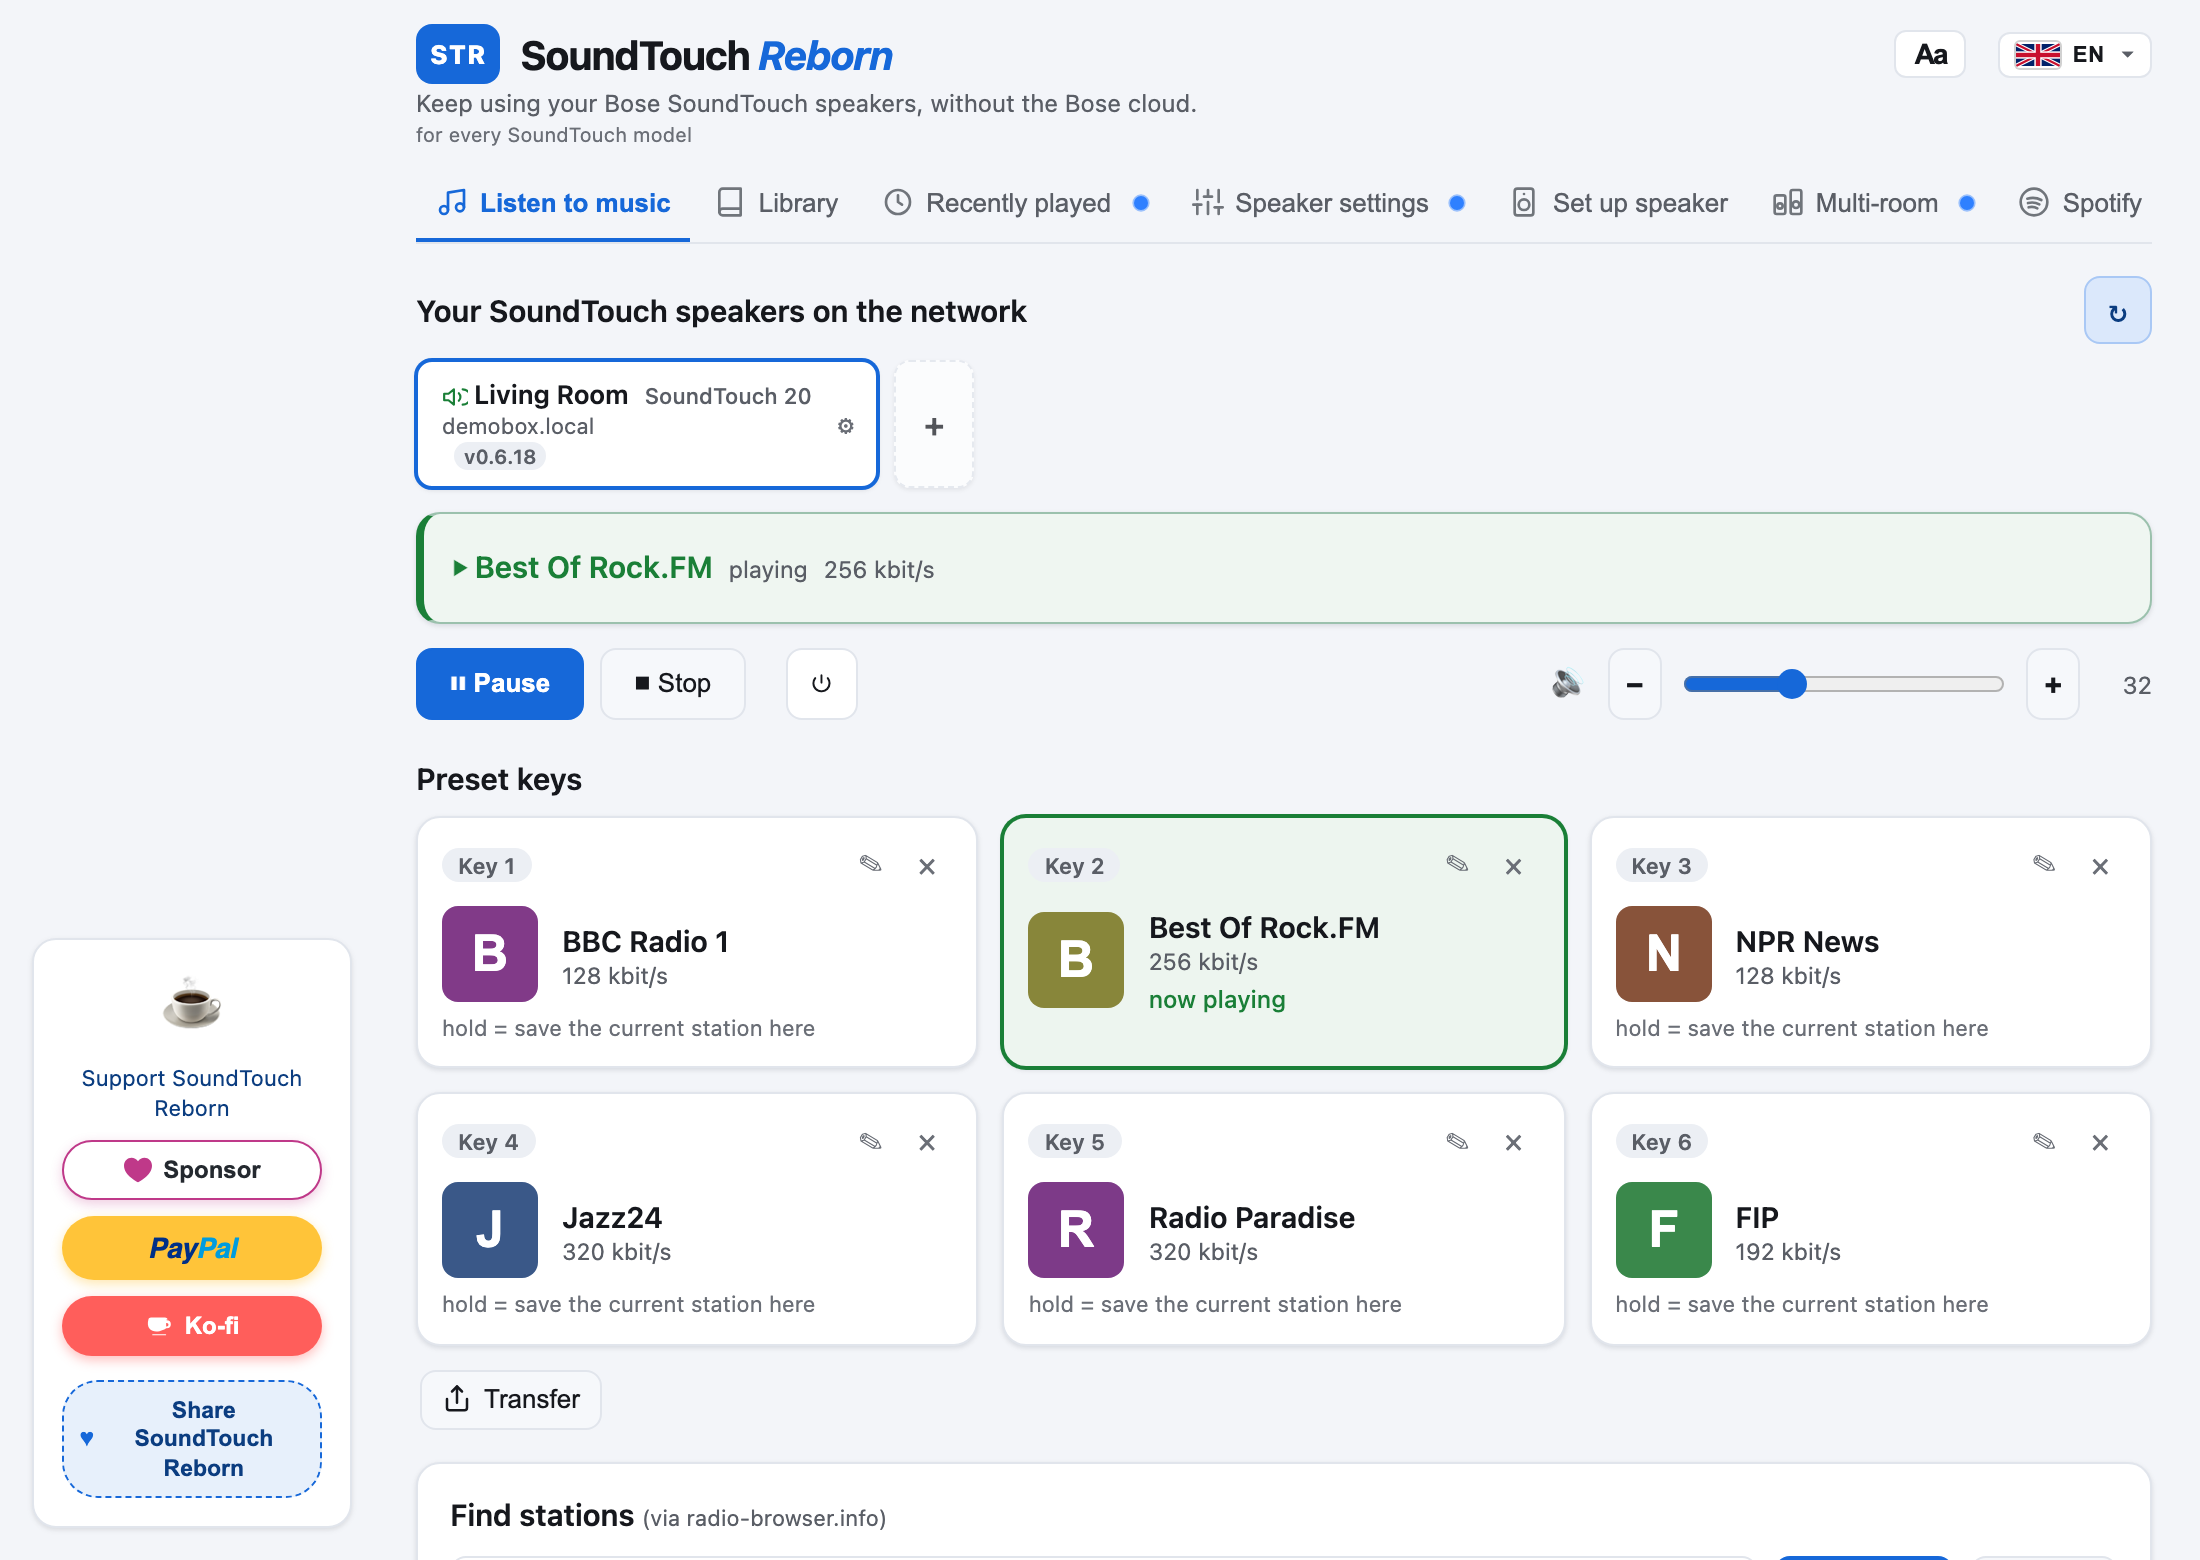
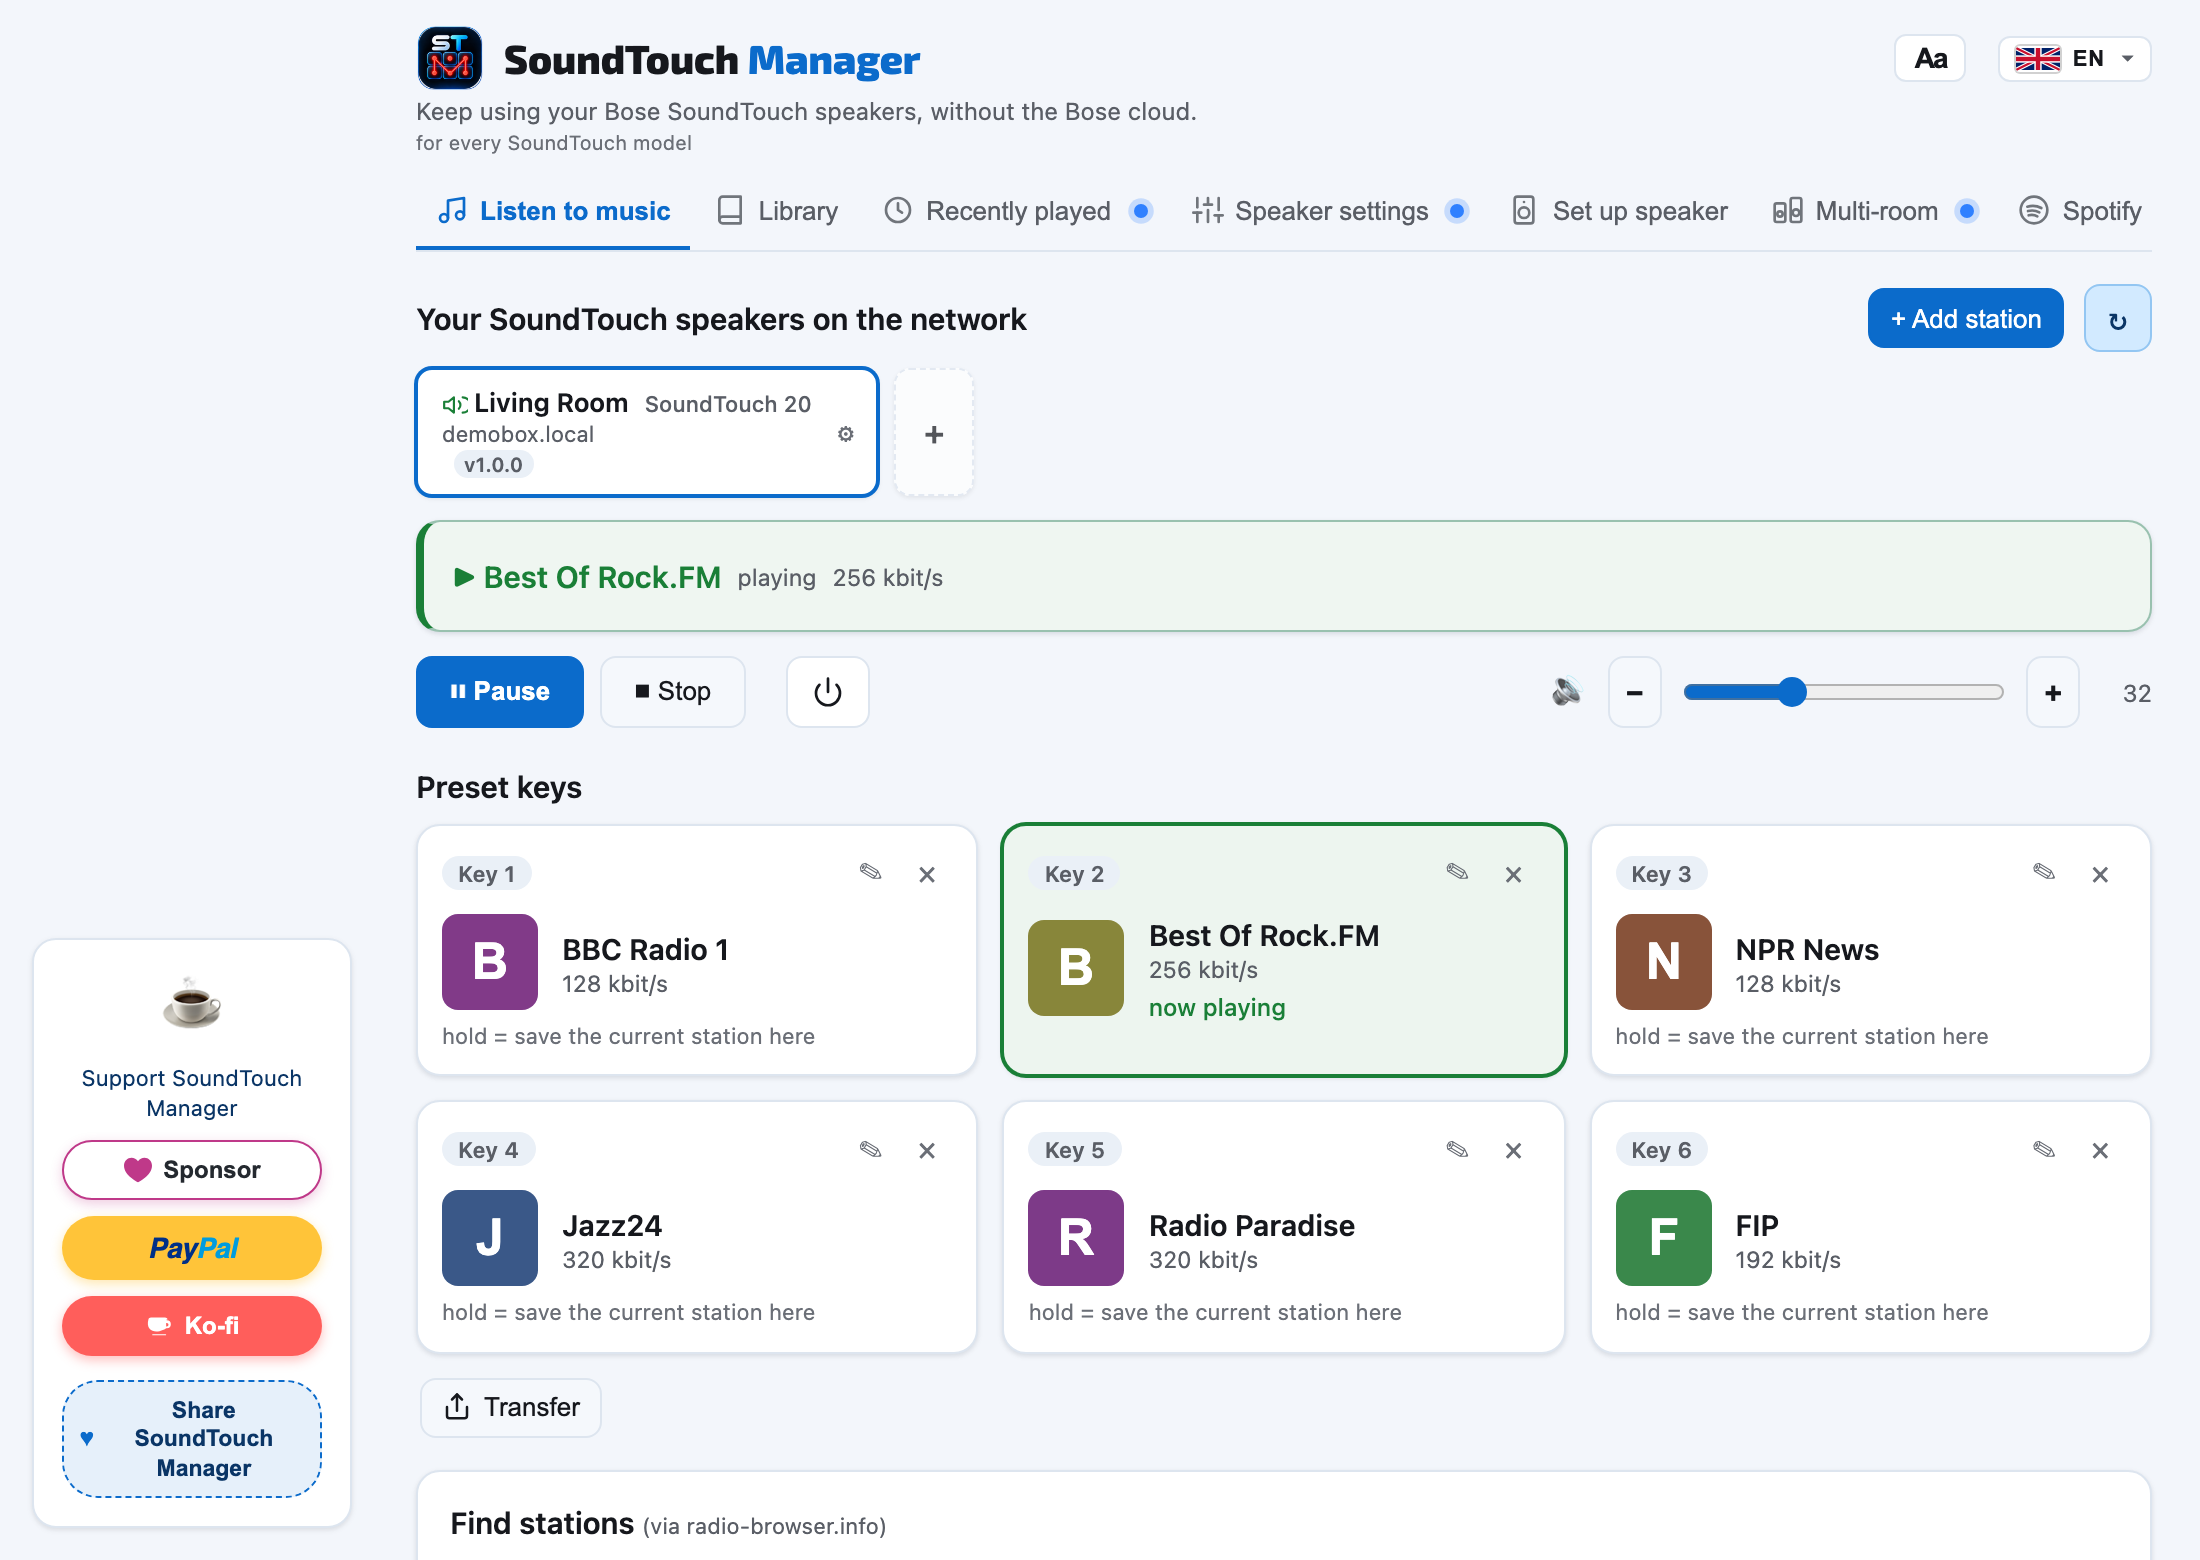
docs(site): show the current app name and add the privacy notice
The homepage screenshot still said SoundTouch Reborn. Google Play needs
a public privacy page for the Android app.

diff --git a/site/es/privacy.html b/site/es/privacy.html
@@ -1,0 +1,71 @@
+<!doctype html>
+<html lang="es">
+<head>
+  <meta charset="utf-8">
+  <meta name="viewport" content="width=device-width, initial-scale=1">
+  <title>Aviso de privacidad — SoundTouch Manager</title>
+  <meta name="description" content="Qué datos trata SoundTouch Manager, qué se queda en tu red y cómo contactar al desarrollador.">
+  <link rel="alternate" hreflang="en" href="https://jcbenitezhe.github.io/SoundTouchManager/privacy.html">
+  <link rel="alternate" hreflang="es" href="https://jcbenitezhe.github.io/SoundTouchManager/es/privacy.html">
+  <link rel="stylesheet" href="../style.css">
+</head>
+<body>
+  <header class="top">
+    <div class="wrap">
+      <a class="brand" href="./"><span class="logo" aria-hidden="true">STM</span>SoundTouch <em>Manager</em></a>
+      <nav>
+        <a href="./">Inicio</a>
+        <a class="lang" href="../privacy.html" hreflang="en" lang="en">English</a>
+      </nav>
+    </div>
+  </header>
+
+  <main class="wrap">
+    <article class="hero" style="text-align:left;padding-bottom:64px">
+      <h1>Aviso de privacidad</h1>
+      <p class="lead" style="margin-left:0">SoundTouch Manager, para la app de Android en Google Play, la app de escritorio y este sitio. Actualizado el 5 de octubre de 2026.</p>
+
+      <h2>Quién es</h2>
+      <p>SoundTouch Manager es una app no oficial de Juan Carlos Benitez. No está afiliada, respaldada ni autorizada por Bose Corporation. Contacto: <a href="mailto:jcbenitezhe@gmail.com">jcbenitezhe@gmail.com</a>.</p>
+      <p>No hay cuenta de SoundTouch Manager. La app no tiene anuncios ni un servicio de analítica o de informes de fallos.</p>
+
+      <h2>Qué se queda en tu red</h2>
+      <p>La app busca altavoces SoundTouch en tu Wi-Fi. El nombre del altavoz y las direcciones locales se quedan en el teléfono y en el altavoz. No se envían al desarrollador.</p>
+      <p>La app no pide la ubicación GPS. Usa la red local solo para encontrar y controlar los altavoces.</p>
+      <p>La música de una biblioteca DLNA de tu red se queda en esa red. La app no sube tus archivos.</p>
+
+      <h2>Servicios que la app contacta cuando los usas</h2>
+      <ul>
+        <li><strong>Radio por Internet.</strong> La búsqueda de emisoras va a radio-browser.info. Ese servicio ve la búsqueda y la dirección de red del dispositivo que la hace. El audio sale después de los servidores de la emisora, a través del altavoz.</li>
+        <li><strong>TuneIn.</strong> Al explorar TuneIn, la app contacta a TuneIn. TuneIn es una marca de TuneIn, Inc. SoundTouch Manager no está afiliado a TuneIn.</li>
+        <li><strong>Spotify.</strong> La reproducción usa tu propia cuenta de Spotify. El inicio de sesión se queda en el altavoz. Spotify recibe una sesión normal de Spotify Connect. El desarrollador no recibe tu contraseña de Spotify.</li>
+        <li><strong>Logos de emisoras.</strong> Si una emisora no trae logo, la app puede pedir a icons.duckduckgo.com el icono público de ese sitio. Esa petición lleva el dominio de la emisora, no tu nombre.</li>
+      </ul>
+      <p>El altavoz no contacta la nube de Bose. SoundTouch Manager responde esas peticiones en tu propia red.</p>
+
+      <h2>Compras de Google Play</h2>
+      <p>En la app de Android, el apoyo opcional son pagos únicos a través de Google Play. Google procesa el pago. El desarrollador no recibe el número de tu tarjeta. Una compra no desbloquea funciones. La app sigue siendo gratis.</p>
+      <p>Los enlaces de PayPal, Ko-fi y GitHub Sponsors de la app de escritorio abren esos sitios en el navegador. Esos sitios tienen su propio aviso. La app de Android que se distribuye en Google Play usa las compras de Play en lugar de esos enlaces.</p>
+
+      <h2>Registros que tú decides enviar</h2>
+      <p>La app no envía registros por su cuenta. Si usas Guardar registros de diagnóstico, escribe un informe en tu dispositivo. Esa exportación quita las direcciones IP y los identificadores del dispositivo. No se sube nada salvo que tú adjuntes el archivo a un correo o a una incidencia de GitHub.</p>
+
+      <h2>Este sitio</h2>
+      <p>jcbenitezhe.github.io/SoundTouchManager no usa cookies ni analítica. Está alojado en GitHub Pages. GitHub puede registrar la dirección IP de quien visita, según la <a href="https://docs.github.com/es/site-policy/privacy-policies/github-general-privacy-statement">Declaración de privacidad de GitHub</a>.</p>
+
+      <h2>Menores</h2>
+      <p>SoundTouch Manager no está dirigido a menores. La ficha de Google Play es para mayores de 18 años.</p>
+
+      <h2>Cuánto tiempo se conservan los datos</h2>
+      <p>El desarrollador no tiene una base de cuentas para esta app. Los ajustes del altavoz viven en el altavoz y en tu dispositivo. Los registros de compra viven en tu cuenta de Google. Los registros del sitio, si los hay, los conserva GitHub.</p>
+    </article>
+  </main>
+
+  <footer>
+    <div class="wrap">
+      <p>SoundTouch Manager, de Juan Carlos Benitez, basado en <a href="https://github.com/JRpersonal/streborn">ST Manager (STM)</a> de Jens Roggenfelder. Licencia MIT. Se ofrece tal cual; úsalo bajo tu propia responsabilidad.</p>
+      <p>"SoundTouch" y "Bose" son marcas registradas de Bose Corporation. SoundTouch Manager es un proyecto no oficial creado por la comunidad, sin afiliación, respaldo ni autorización de Bose.</p>
+    </div>
+  </footer>
+</body>
+</html>

diff --git a/site/privacy.html b/site/privacy.html
@@ -1,0 +1,71 @@
+<!doctype html>
+<html lang="en">
+<head>
+  <meta charset="utf-8">
+  <meta name="viewport" content="width=device-width, initial-scale=1">
+  <title>Privacy notice — SoundTouch Manager</title>
+  <meta name="description" content="What SoundTouch Manager collects, what stays on your network, and how to contact the developer.">
+  <link rel="alternate" hreflang="es" href="https://jcbenitezhe.github.io/SoundTouchManager/es/privacy.html">
+  <link rel="alternate" hreflang="en" href="https://jcbenitezhe.github.io/SoundTouchManager/privacy.html">
+  <link rel="stylesheet" href="style.css">
+</head>
+<body>
+  <header class="top">
+    <div class="wrap">
+      <a class="brand" href="./"><span class="logo" aria-hidden="true">STM</span>SoundTouch <em>Manager</em></a>
+      <nav>
+        <a href="./">Home</a>
+        <a class="lang" href="es/privacy.html" hreflang="es" lang="es">Español</a>
+      </nav>
+    </div>
+  </header>
+
+  <main class="wrap">
+    <article class="hero" style="text-align:left;padding-bottom:64px">
+      <h1>Privacy notice</h1>
+      <p class="lead" style="margin-left:0">SoundTouch Manager, for the Android app on Google Play, the desktop app, and this website. Last updated 5 October 2026.</p>
+
+      <h2>Who this is</h2>
+      <p>SoundTouch Manager is an unofficial app by Juan Carlos Benitez. It is not affiliated with, endorsed by, or authorized by Bose Corporation. Contact: <a href="mailto:jcbenitezhe@gmail.com">jcbenitezhe@gmail.com</a>.</p>
+      <p>There is no SoundTouch Manager account. The app has no ads and no analytics or crash-reporting service.</p>
+
+      <h2>What stays on your network</h2>
+      <p>The app looks for SoundTouch speakers on your Wi-Fi. Speaker names and local addresses stay on your phone and on the speaker. They are not sent to the developer.</p>
+      <p>The app does not ask for GPS location. It uses the local network only to find and control speakers.</p>
+      <p>Music from a DLNA library on your network stays on that network. The app does not upload your files.</p>
+
+      <h2>Services the app contacts when you use them</h2>
+      <ul>
+        <li><strong>Internet radio.</strong> A station search goes to radio-browser.info. That service sees the search and the network address of the device making it. The audio then plays from the station's own servers, through the speaker.</li>
+        <li><strong>TuneIn.</strong> Browsing TuneIn contacts TuneIn. TuneIn is a trademark of TuneIn, Inc. SoundTouch Manager is not affiliated with TuneIn.</li>
+        <li><strong>Spotify.</strong> Playback uses your own Spotify account. The login stays on the speaker. Spotify receives a normal Spotify Connect session. The developer does not receive your Spotify password.</li>
+        <li><strong>Station logos.</strong> If a station has no logo of its own, the app may ask icons.duckduckgo.com for that station's public site icon. That request contains the station's domain, not your name.</li>
+      </ul>
+      <p>The speaker does not contact the Bose cloud. SoundTouch Manager answers those requests on your own network.</p>
+
+      <h2>Google Play purchases</h2>
+      <p>On the Android app, optional support purchases are one-time payments through Google Play. Google processes the payment. The developer does not receive your card number. A purchase does not unlock features. The app remains free.</p>
+      <p>The desktop app's PayPal, Ko-fi, and GitHub Sponsors links open those sites in your browser. Those sites have their own privacy notices. The Android app distributed on Google Play uses Play purchases instead of those links.</p>
+
+      <h2>Logs you choose to send</h2>
+      <p>The app does not send logs by itself. If you use Save diagnostic logs, it writes a report on your device. That export removes IP addresses and device identifiers. Nothing is uploaded unless you attach the file to an email or a GitHub issue yourself.</p>
+
+      <h2>This website</h2>
+      <p>jcbenitezhe.github.io/SoundTouchManager sets no cookies and uses no analytics. It is hosted by GitHub Pages. GitHub may log visitor IP addresses under the <a href="https://docs.github.com/en/site-policy/privacy-policies/github-general-privacy-statement">GitHub Privacy Statement</a>.</p>
+
+      <h2>Children</h2>
+      <p>SoundTouch Manager is not directed at children. The Google Play listing is for ages 18 and older.</p>
+
+      <h2>How long data is kept</h2>
+      <p>The developer does not run an account database for this app. Speaker settings live on your speaker and on your device. Purchase records live in your Google account. Website logs, if any, are kept by GitHub.</p>
+    </article>
+  </main>
+
+  <footer>
+    <div class="wrap">
+      <p>SoundTouch Manager by Juan Carlos Benitez, based on <a href="https://github.com/JRpersonal/streborn">ST Manager (STM)</a> by Jens Roggenfelder. MIT license. Provided as is; use at your own risk.</p>
+      <p>"SoundTouch" and "Bose" are registered trademarks of Bose Corporation. SoundTouch Manager is an unofficial, community-built project, not affiliated with, endorsed by, or authorized by Bose.</p>
+    </div>
+  </footer>
+</body>
+</html>

diff --git a/site/es/index.html b/site/es/index.html
@@ -122,7 +122,7 @@
     <div class="wrap">
       <p>SoundTouch Manager, de Juan Carlos Benitez, basado en <a href="https://github.com/JRpersonal/streborn">ST Manager (STM)</a> de Jens Roggenfelder. Licencia MIT. Se ofrece tal cual; úsalo bajo tu propia responsabilidad.</p>
       <p>"SoundTouch" y "Bose" son marcas registradas de Bose Corporation. SoundTouch Manager es un proyecto no oficial creado por la comunidad, sin afiliación, respaldo ni autorización de Bose.</p>
-      <p>Privacidad: este sitio no usa cookies ni analítica. Está alojado en GitHub Pages, que puede registrar las direcciones IP de los visitantes; consulta la <a href="https://docs.github.com/es/site-policy/privacy-policies/github-general-privacy-statement">Declaración de privacidad de GitHub</a>.</p>
+      <p>Privacidad: este sitio no usa cookies ni analítica. Lee el <a href="privacy.html">aviso de privacidad</a>. Está alojado en GitHub Pages, que puede registrar las direcciones IP de los visitantes; consulta la <a href="https://docs.github.com/es/site-policy/privacy-policies/github-general-privacy-statement">Declaración de privacidad de GitHub</a>.</p>
     </div>
   </footer>
 </body>

diff --git a/site/index.html b/site/index.html
@@ -122,7 +122,7 @@
     <div class="wrap">
       <p>SoundTouch Manager by Juan Carlos Benitez, based on <a href="https://github.com/JRpersonal/streborn">ST Manager (STM)</a> by Jens Roggenfelder. MIT license. Provided as is; use at your own risk.</p>
       <p>"SoundTouch" and "Bose" are registered trademarks of Bose Corporation. SoundTouch Manager is an unofficial, community-built project, not affiliated with, endorsed by, or authorized by Bose.</p>
-      <p>Privacy: this site sets no cookies and uses no analytics. It is hosted by GitHub Pages, which may log visitor IP addresses; see the <a href="https://docs.github.com/en/site-policy/privacy-policies/github-general-privacy-statement">GitHub Privacy Statement</a>.</p>
+      <p>Privacy: this site sets no cookies and uses no analytics. Read the <a href="privacy.html">privacy notice</a>. The site is hosted by GitHub Pages, which may log visitor IP addresses; see the <a href="https://docs.github.com/en/site-policy/privacy-policies/github-general-privacy-statement">GitHub Privacy Statement</a>.</p>
     </div>
   </footer>
 </body>
